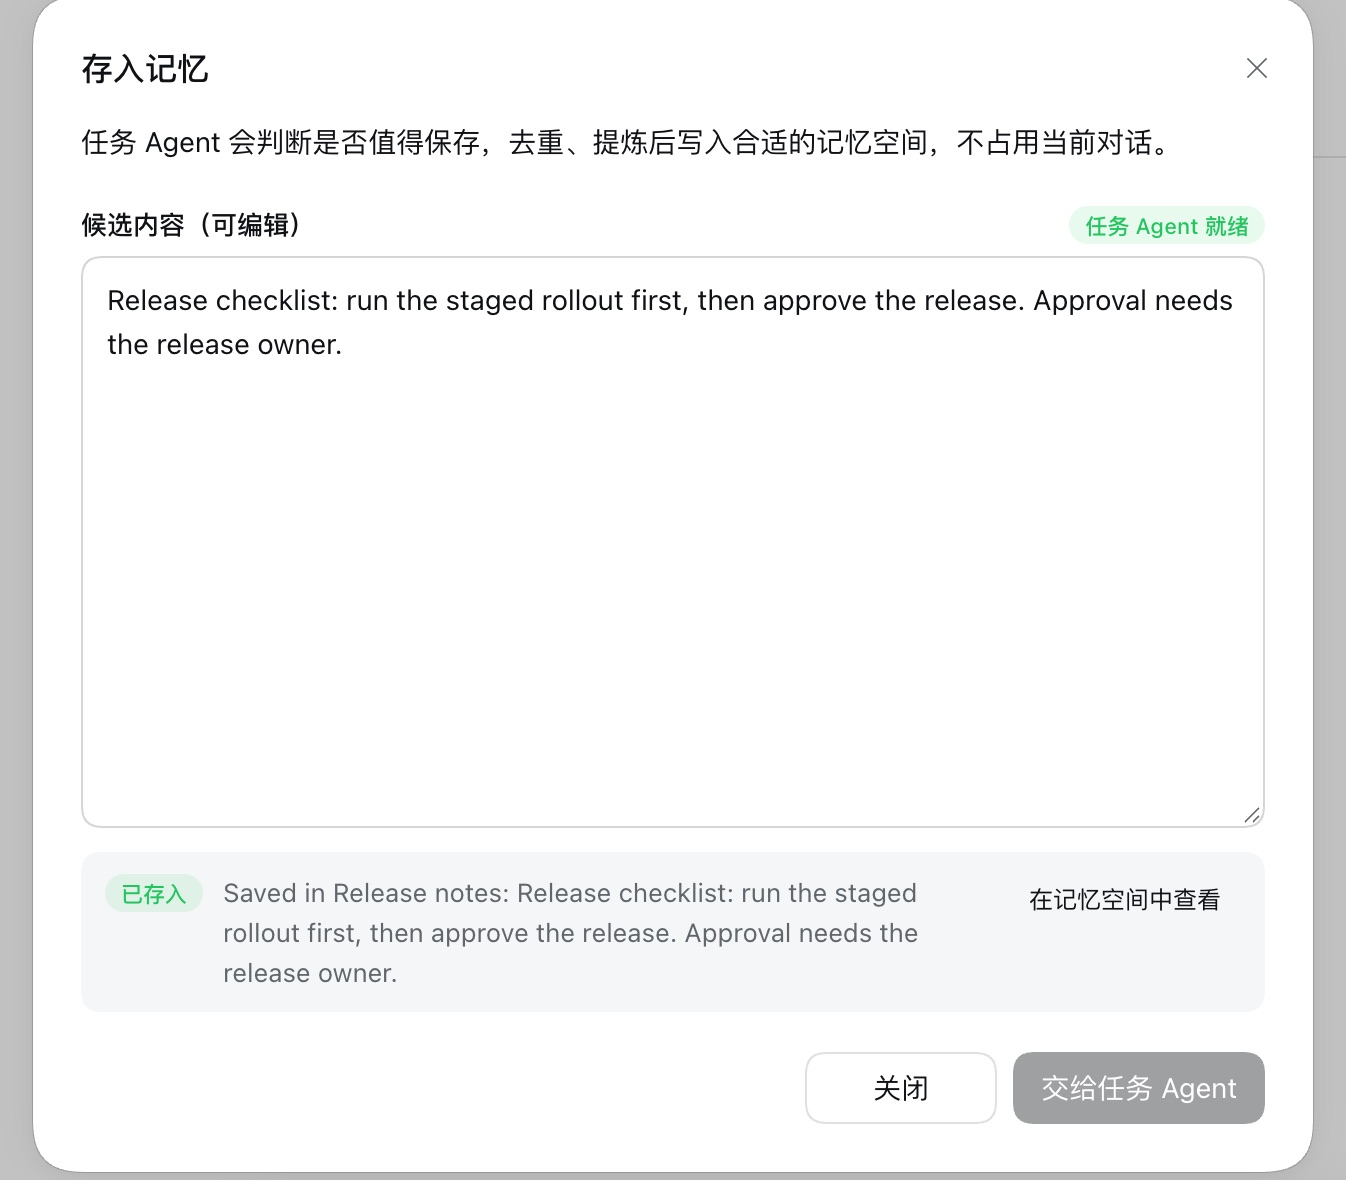
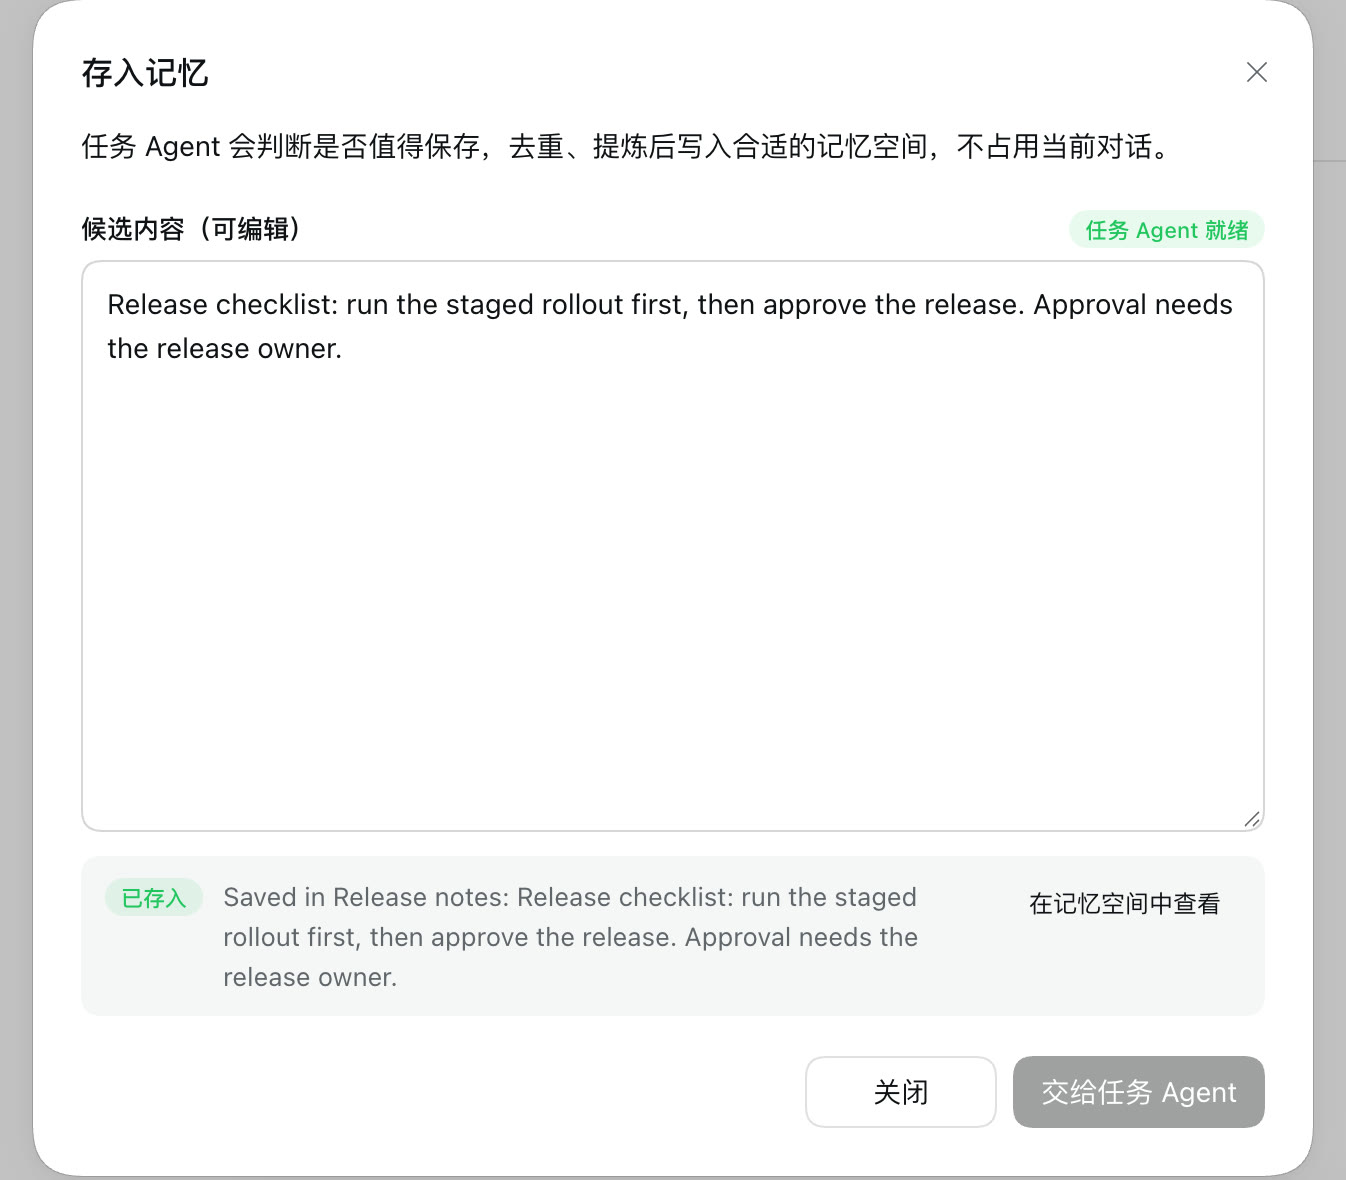
docs(pr-assets): record the Save to memory replay guard after review
The WebUI run is repeated on the follow-up, with the same result. The record
and changeset describe the guard as it now works: one entry per reply with
the text last sent, replaying only that text. They also correct which
earlier submissions made main refuse an edit.

diff --git a/docs/pr-assets/issue-342-edited-save/README.md b/docs/pr-assets/issue-342-edited-save/README.md
@@ -4,7 +4,7 @@
 
 Save to memory marks its candidate as editable and, once a receipt is shown, asks for an edit before sending again. On main, a candidate edited after the reply had been saved once failed with `idempotency key was already used for different content`, and nothing was written. With the fix, the edited text reaches the task Agent and is saved as well.
 
-Baseline: main `2296898d` (dsh-mnemon 0.5.24). Fix: `aaaa3ffa`. The runs use macOS 15.6 arm64, Node 24.19.0, DSH 0.2.0-rc.2 (npm `latest` and `next`) in an isolated prefix, and Mnemon CLI 0.2.10.
+Baseline: main `2296898d` (dsh-mnemon 0.5.24). Fix: `aaaa3ffa`, with `c241612b` from review; the run below is on `c241612b`. The runs use macOS 15.6 arm64, Node 24.19.0, DSH 0.2.0-rc.2 (npm `latest` and `next`) in an isolated prefix, and Mnemon CLI 0.2.10.
 
 ## Method
 
@@ -34,13 +34,14 @@ The first submission is saved on both builds:
 
 ## Cause and fix
 
-The dialog sends the reply's message id as the idempotency key of its request. The Host kept one replay entry per scope and key, and refused the key when the text differed. The dialog itself already treats an edited candidate as a new request: a receipt answers one text, and the send button returns once the text changes. The Host disagreed only after the first submission succeeded, since a failed submission removes its replay entry.
+The dialog sends the reply's message id as the idempotency key of its request. The Host kept one replay entry per scope and key, and refused the key when the text differed. The dialog itself already treats an edited candidate as a new request: a receipt answers one text, and the send button returns once the text changes. The Host disagreed once an earlier submission for the reply had returned, whatever its receipt said; only a submission that threw removed its replay entry.
 
-The replay key now also carries a SHA-256 digest of the text. Sending the same text again, for example after reopening the dialog, still returns the first receipt without starting a second task Agent; edited text is a request of its own. The replay guard keeps its bound of 256 entries and still drops an entry when its request fails. Submissions without a key, such as **Save to memory** on the Memory Spaces page, are unchanged.
+The replay guard still keeps one entry per reply, now holding the text last sent. Sending that text again, for example after reopening the dialog, still returns its receipt without starting a second task Agent. Any other text is a request of its own and takes the reply's place, so editing back to an earlier text writes it again instead of replaying a receipt the edit in between may have outdated. The guard keeps its bound of 256 entries and still drops an entry whose request throws. Submissions without a key, such as **Save to memory** on the Memory Spaces page, are unchanged.
 
 ## Automated checks
 
-- `tests/lifecycle.spec.ts`, *treats an edited candidate for the same message as a request of its own*: the edited candidate is delegated as a second write, and sending the first text again replays its result without another write. On main the test fails with the reported error.
+- `tests/lifecycle.spec.ts`, *treats an edited candidate for the same message as a request of its own*: the edited candidate is delegated as a second write, sending it again replays its result, and editing back to the first text writes again. On main the test fails with the reported error.
+- *replays and takes edits per message for the dialog in a disposable task Agent*: the same through `superviseTask`, the path the dialog uses, with a task Agent per write.
 - The existing replay test still checks that two concurrent submissions of the same text start one task Agent.
 
 ## Limits

diff --git a/docs/pr-assets/issue-342-edited-save/README.zh-CN.md b/docs/pr-assets/issue-342-edited-save/README.zh-CN.md
@@ -4,7 +4,7 @@
 
 存入记忆把候选内容标为可编辑；出现回执后，要修改候选内容才能再次提交。在 main 上，同一条回复保存过一次之后，修改候选内容再提交会报 `idempotency key was already used for different content`，什么也没有写入。修复后，修改后的内容会交给任务 Agent，同样存入。
 
-基线：main `2296898d`（dsh-mnemon 0.5.24）。修复：`aaaa3ffa`。运行环境为 macOS 15.6 arm64、Node 24.19.0、隔离前缀中的 DSH 0.2.0-rc.2（npm `latest` 与 `next`），以及 Mnemon CLI 0.2.10。
+基线：main `2296898d`（dsh-mnemon 0.5.24）。修复：`aaaa3ffa`，以及审查后补充的 `c241612b`；下面的运行基于 `c241612b`。运行环境为 macOS 15.6 arm64、Node 24.19.0、隔离前缀中的 DSH 0.2.0-rc.2（npm `latest` 与 `next`），以及 Mnemon CLI 0.2.10。
 
 ## 方法
 
@@ -34,13 +34,14 @@
 
 ## 原因与修复
 
-对话框把回复的消息 id 作为请求的幂等键发送。Host 按作用域和键各保留一条重放记录，文本不同就拒绝这个键。对话框本身已经把修改后的候选内容当作新请求：一份回执只对应一段文本，文本一改，提交按钮就恢复可用。只有第一次提交成功之后，Host 才与对话框不一致，因为失败的提交会删除它的重放记录。
+对话框把回复的消息 id 作为请求的幂等键发送。Host 按作用域和键各保留一条重放记录，文本不同就拒绝这个键。对话框本身已经把修改后的候选内容当作新请求：一份回执只对应一段文本，文本一改，提交按钮就恢复可用。只要同一条回复之前的提交已经返回，无论回执是什么，Host 都与对话框不一致；只有抛出异常的提交才会删除它的重放记录。
 
-现在重放键还包含文本的 SHA-256 摘要。原样再次提交（例如重新打开对话框之后）仍返回第一次的回执，不会再启动一个任务 Agent；修改后的文本是一个独立的请求。重放保护仍最多保留 256 条记录，请求失败时仍会删除对应记录。不带键的提交（例如记忆空间页上的**存入记忆**）不受影响。
+重放保护仍然每条回复保留一条记录，现在记录的是最后一次提交的文本。原样再次提交这段文本（例如重新打开对话框之后）仍返回它的回执，不会再启动一个任务 Agent。其他文本都是独立的请求，并取代这条回复原来的记录；所以改回之前的文本会重新写入，而不是重放一份可能已被中间那次修改改变的回执。重放保护仍最多保留 256 条记录，请求抛出异常时仍会删除对应记录。不带键的提交（例如记忆空间页上的**存入记忆**）不受影响。
 
 ## 自动化检查
 
-- `tests/lifecycle.spec.ts` 的 *treats an edited candidate for the same message as a request of its own*：修改后的候选内容会作为第二次写入交给任务 Agent，原样再次提交第一段文本则重放其结果、不再写入。在 main 上这条测试以报告中的错误失败。
+- `tests/lifecycle.spec.ts` 的 *treats an edited candidate for the same message as a request of its own*：修改后的候选内容会作为第二次写入交给任务 Agent，原样再次提交它会重放其结果，改回第一段文本则再次写入。在 main 上这条测试以报告中的错误失败。
+- *replays and takes edits per message for the dialog in a disposable task Agent*：通过对话框实际使用的 `superviseTask` 路径做同样的检查，每次写入使用一个任务 Agent。
 - 原有的重放测试仍然检查：同一段文本的两次并发提交只启动一个任务 Agent。
 
 ## 限制

diff --git a/.changeset/edited-save-candidate.md b/.changeset/edited-save-candidate.md
@@ -2,6 +2,6 @@
 "dsh-mnemon": patch
 ---
 
-Save to memory accepts an edited candidate again. The dialog marks the candidate as editable and asks for an edit before sending again, but the Host keyed its replay guard by the reply alone: after a reply had been saved once, sending an edited candidate for it failed with `idempotency key was already used for different content`. The guard now covers the text as well. Sending the same text again still returns the first receipt without a second write; edited text goes to the task Agent as a new candidate.
+Save to memory accepts an edited candidate again. The dialog marks the candidate as editable and asks for an edit before sending again, but the Host keyed its replay guard by the reply alone: after a reply had been saved once, sending an edited candidate for it failed with `idempotency key was already used for different content`. The guard now keeps the text last sent for each reply: sending it again still returns its receipt without a second write, and edited text goes to the task Agent as a new candidate.
 
-存入记忆现在可以再次提交修改后的候选内容。对话框标明候选内容可编辑，并要求修改后才能再次提交；但 Host 的重放保护只按回复区分：同一条回复保存过一次后，修改候选内容再提交会报 `idempotency key was already used for different content`。现在重放保护同时区分内容：原样再次提交仍返回第一次的回执，不会重复写入；修改后的内容会作为新的候选交给任务 Agent。
+存入记忆现在可以再次提交修改后的候选内容。对话框标明候选内容可编辑，并要求修改后才能再次提交；但 Host 的重放保护只按回复区分：同一条回复保存过一次后，修改候选内容再提交会报 `idempotency key was already used for different content`。现在重放保护会记住每条回复最后一次提交的文本：原样再次提交仍返回它的回执，不会重复写入；修改后的内容会作为新的候选交给任务 Agent。
